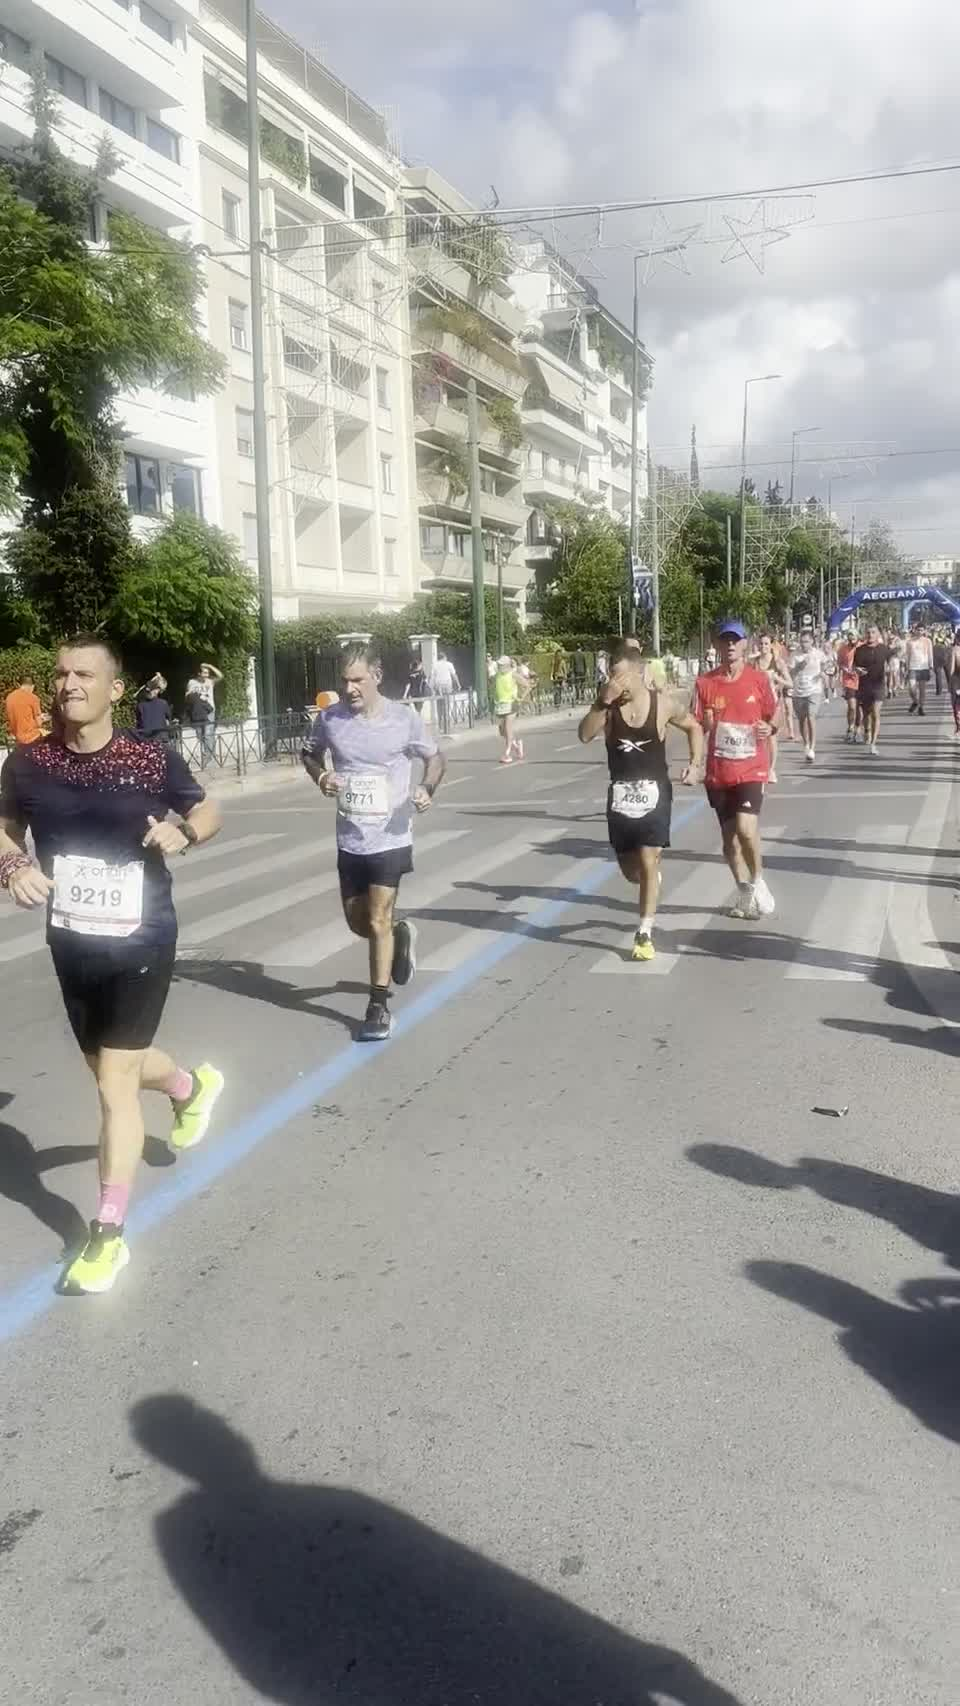
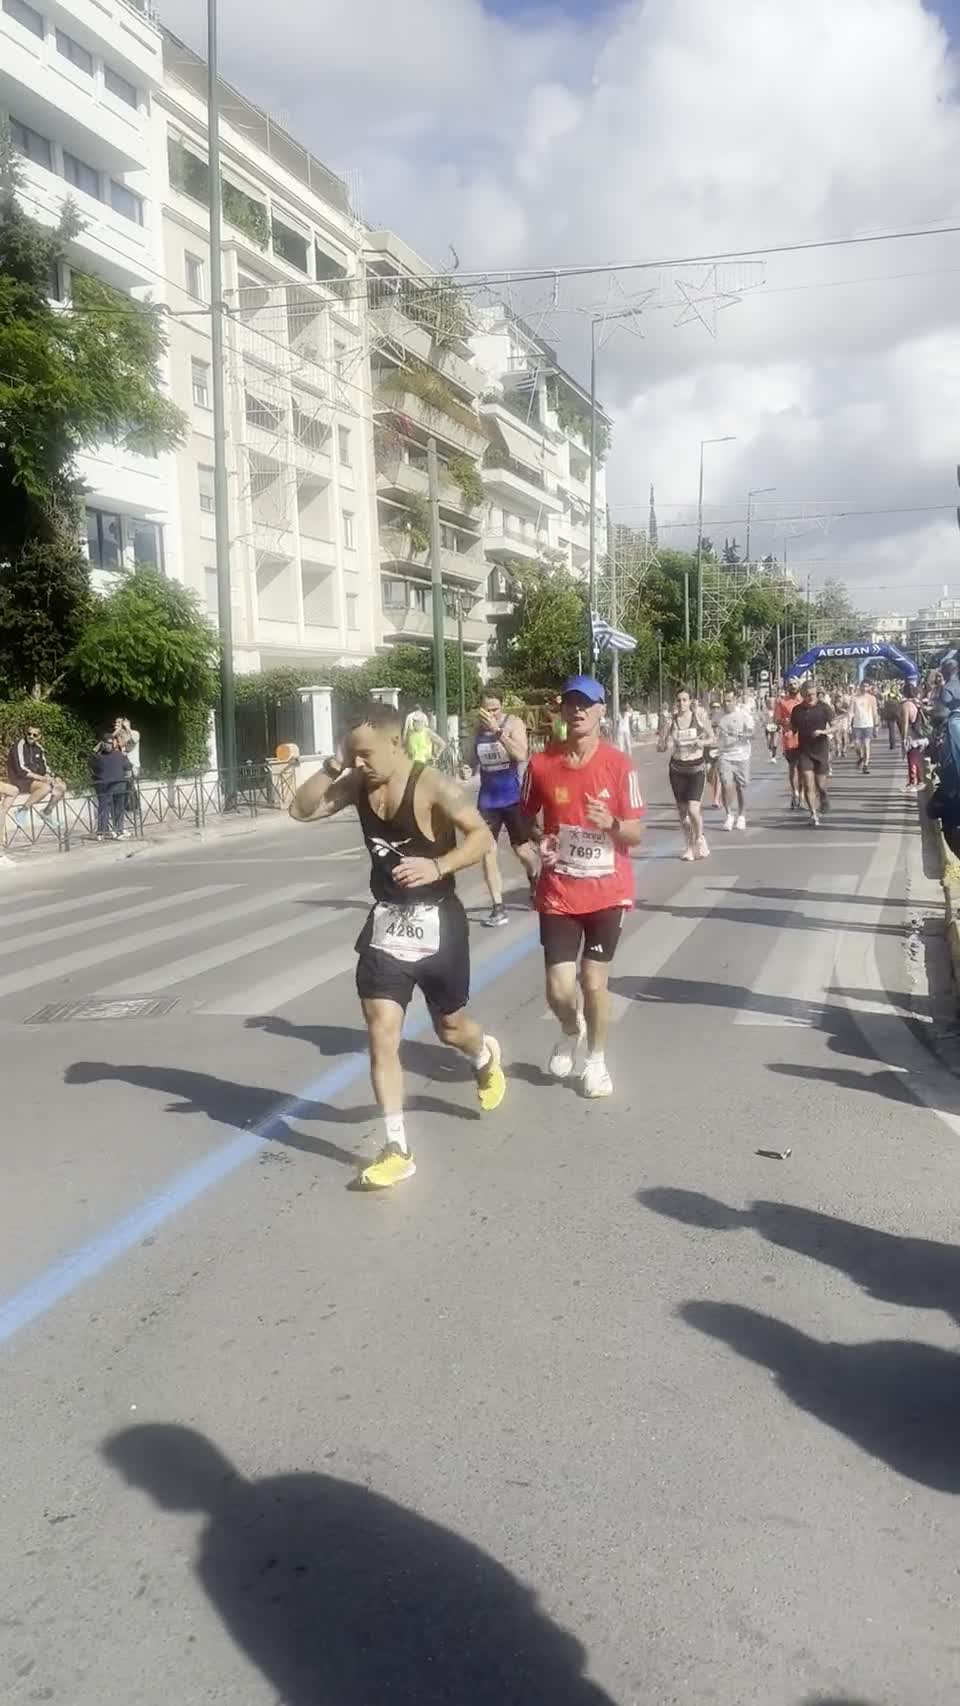
Update Big Question media: new photo-1, reorder to photo/video/photo, regen poster
Video was trimmed, so the poster frame is re-extracted from the new
cut. Reordered the row to photo-1, video, photo-3 per request.

diff --git a/our-love-story.html b/our-love-story.html
@@ -139,7 +139,6 @@
       <h2 class="section-heading" data-en="The Big Question" data-es="La Gran Pregunta">The Big Question</h2>
       <div class="photo-placeholder-row">
         <div class="photo-box"><img src="imgs/our-story/big-question/photo-1.jpg" alt="Morgan and Juanma" loading="lazy" /></div>
-        <div class="photo-box"><img src="imgs/our-story/big-question/photo-2.jpg" alt="Morgan and Juanma" loading="lazy" /></div>
         <div class="photo-box video-tap">
           <video poster="imgs/our-story/big-question/proposal-poster.jpg" preload="metadata" playsinline>
             <source src="imgs/our-story/big-question/proposal.mp4" type="video/mp4" />
@@ -148,6 +147,7 @@
             <svg viewBox="0 0 24 24" fill="currentColor" aria-hidden="true"><path d="M8 5v14l11-7z"/></svg>
           </button>
         </div>
+        <div class="photo-box"><img src="imgs/our-story/big-question/photo-3.jpg" alt="Morgan and Juanma" loading="lazy" /></div>
       </div>
 
       <div class="guide-block">